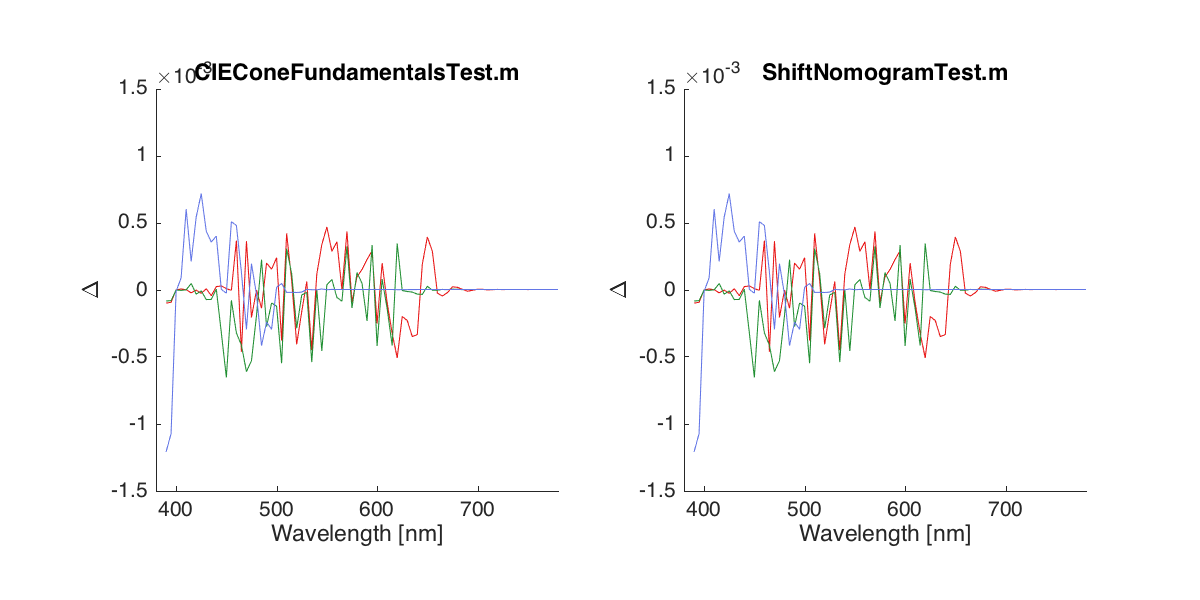
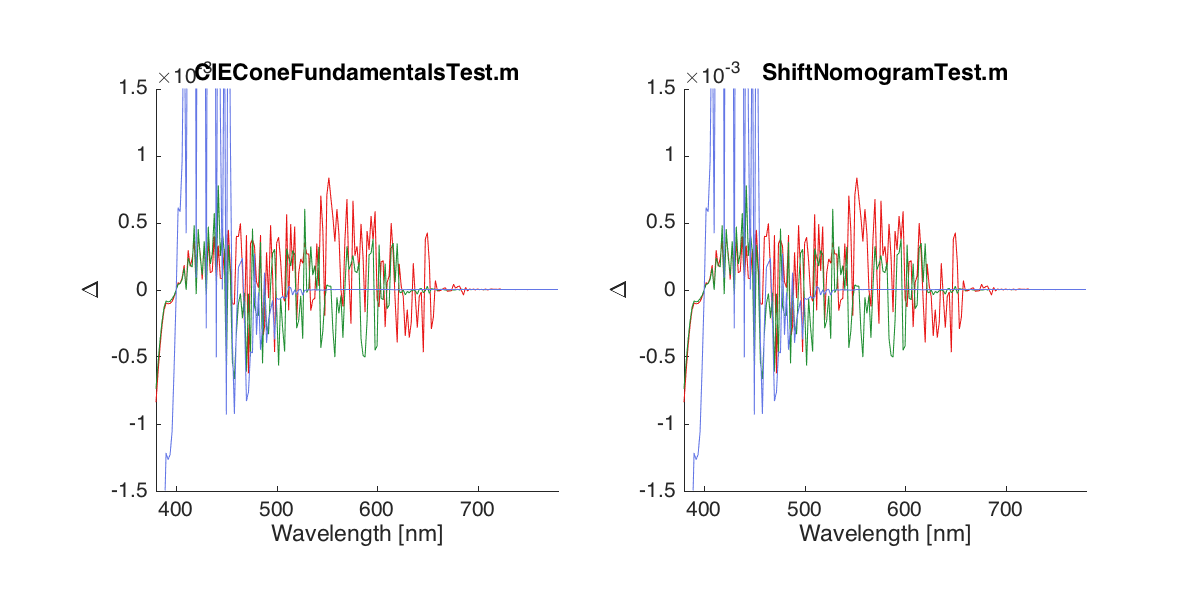
A few tweaks

Changed region(s): [[0.1233, 0.15, 0.4008, 0.69], [0.5858, 0.15, 0.8325, 0.69], [0.555, 0.57, 0.5858, 0.66]]

diff --git a/Nomograms/ShiftNomogramTest.m b/Nomograms/ShiftNomogramTest.m
@@ -260,6 +260,41 @@ set(gcf, 'PaperPosition', [0 0 8 4]); % Position plot at left hand corner with w
 set(gcf, 'PaperSize', [8 4]); % Set the paper to have width 8 and height 4.
 saveas(gcf, 'StockmanSharpe_ComparisonCIEConeFundamentalsTest.png', 'png');
 
+%% Look at different ways of shifting peak pigment absorbance
+% Get Stockman-Sharpe tabulated absorbance
+load T_log10coneabsorbance_ss
+T_StockmanSharpeAbsorbance = 10.^SplineCmf(S_log10coneabsorbance_ss,T_log10coneabsorbance_ss,S,2);
+
+theShifts = [-25:1:25];
+for c = 1:length(theShifts)
+    lambdaMaxShift = theShifts(c);
+    
+    % Interpolation in log wl
+    T_StockmanSharpeAbsorbance_Shift1 = ShiftPhotopigmentAbsorbance(S, T_StockmanSharpeAbsorbance, [lambdaMaxShift lambdaMaxShift lambdaMaxShift]);
+    
+    % Linear interpolation as in Asano et al. (2016)
+    for a = 1:3
+        T_StockmanSharpeAbsorbance_Shift2(a, :) = interp1(wls+lambdaMaxShift, T_StockmanSharpeAbsorbance(a, :), wls, 'spline')';
+    end
+    
+    % Calculate the sum of squared differences
+    diffs(c, :) = sum(((T_StockmanSharpeAbsorbance_Shift1-T_StockmanSharpeAbsorbance_Shift2).^2), 2);
+end
+
+% Plot the shifts
+for i = 1:3
+    h0(i) = plot(theShifts, diffs(:, i), 'Color', theLMSCols(i, :), 'LineWidth', 2); hold on;
+end
+xlabel('Shift in \lambda_{max} [nm]');
+ylabel('Sum of squared differences');
+title('Linear vs. log-normalized shifting');
+set(gca, 'TickDir', 'out'); box off;
+legend(h0, {'L', 'M', 'S'}, 'Location', 'North'); legend boxoff;
+pbaspect([1 1 1]);
+
+set(gcf, 'PaperPosition', [0 0 4 4]); % Position plot at left hand corner with width 8 and height 4.
+set(gcf, 'PaperSize', [4 4]); % Set the paper to have width 8 and height 4.
+saveas(gcf, 'StockmanSharpe_ShiftComparison.png', 'png');
 
 %% Fit the tabulated absorbances as nomogram mixtures
 
